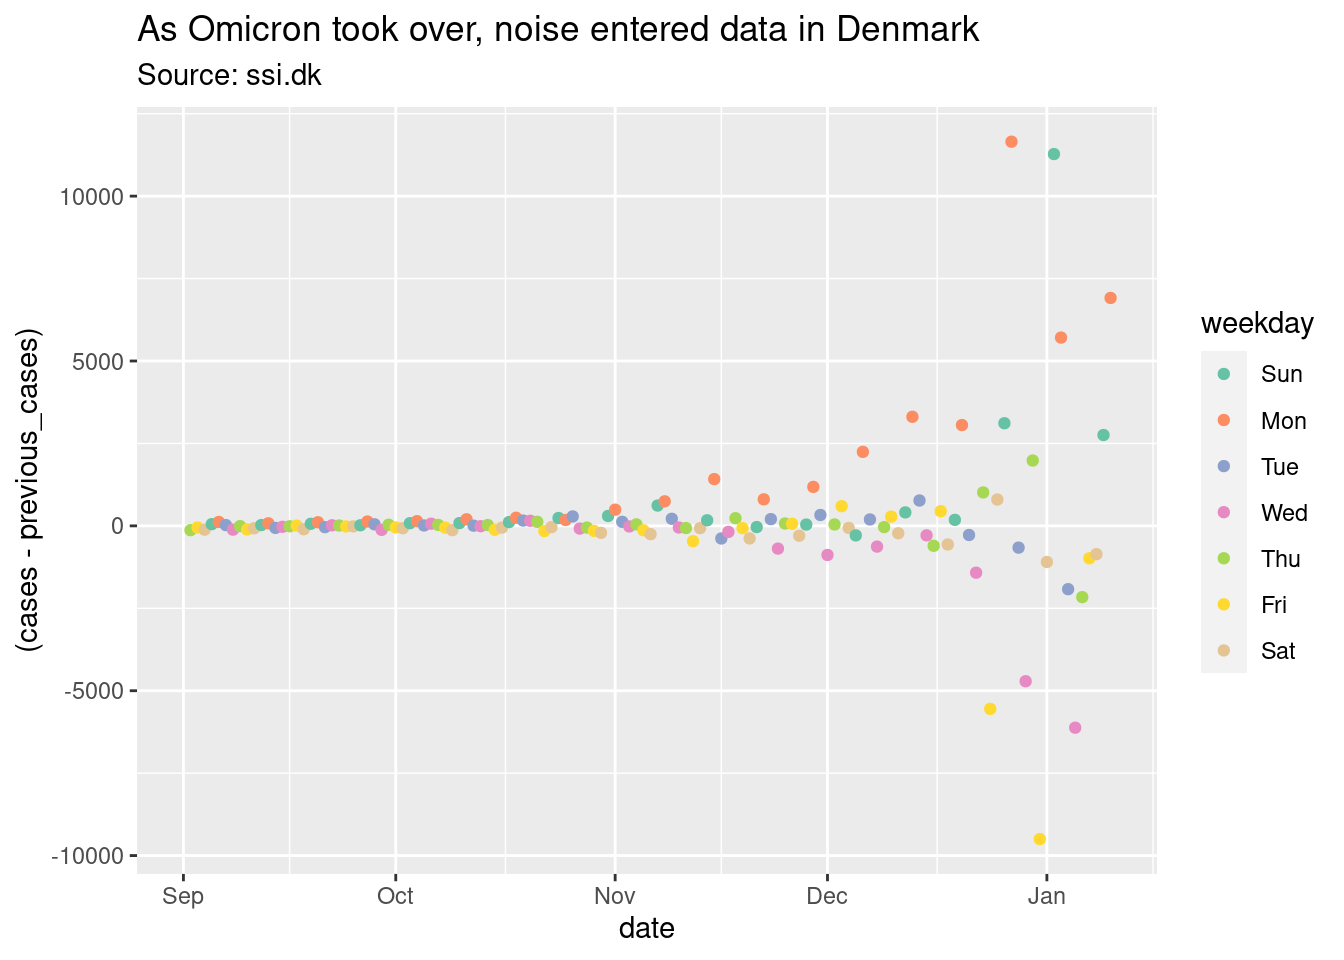
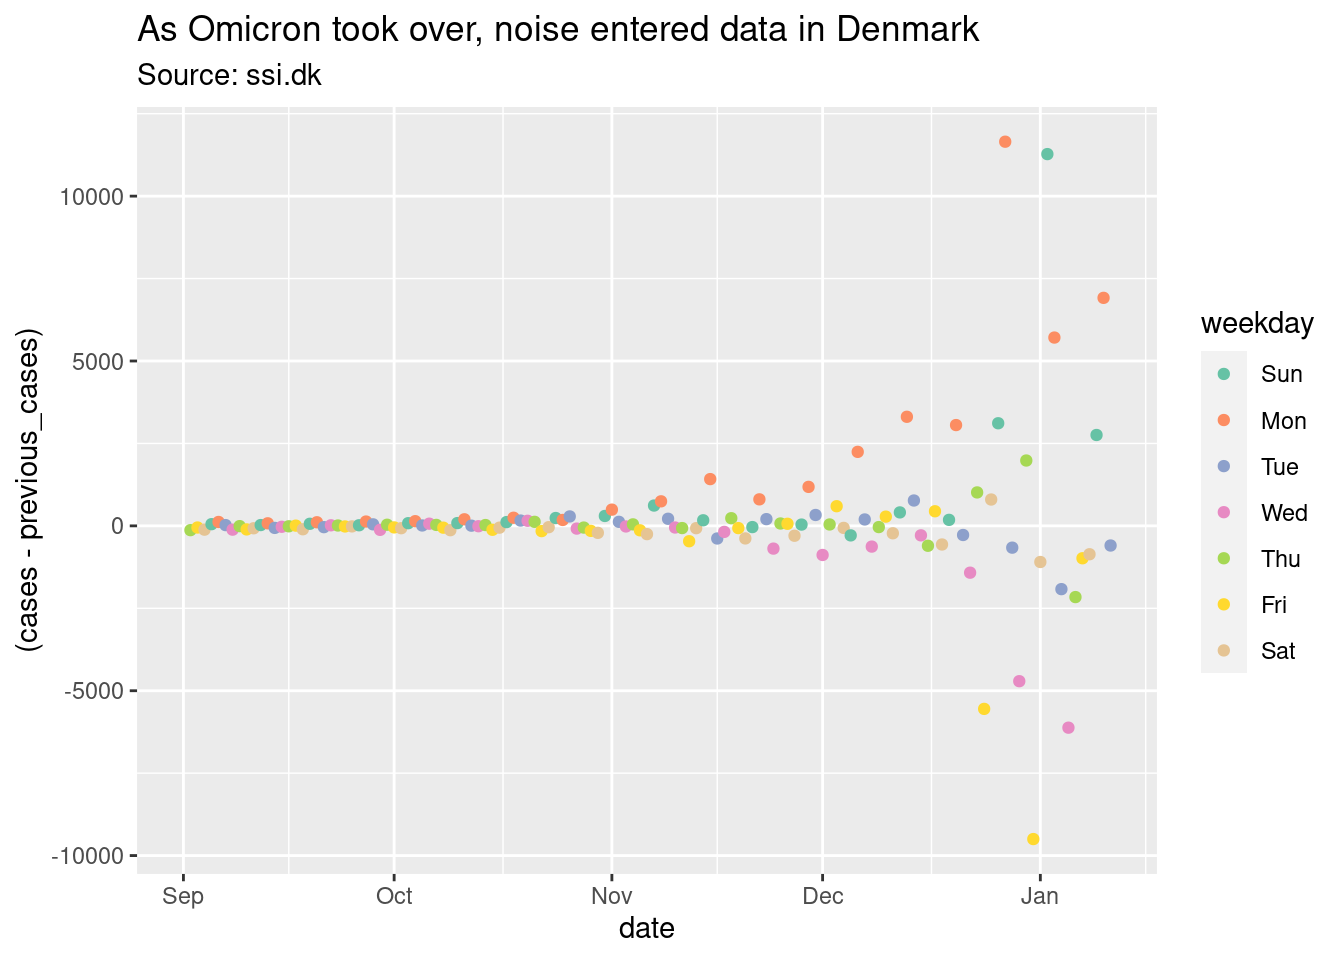
Introduce todays data.

diff --git a/docs/index.html b/docs/index.html
@@ -10,7 +10,7 @@
 
 
 
-<meta name="date" content="2022-01-13" />
+<meta name="date" content="2022-01-14" />
 
 <title>Covid-19 Stats for Denmark</title>
 
@@ -258,7 +258,7 @@ $(document).ready(function () {
 
 
 <h1 class="title toc-ignore">Covid-19 Stats for Denmark</h1>
-<h4 class="date">2022-01-13</h4>
+<h4 class="date">2022-01-14</h4>
 
 </div>
 
@@ -279,6 +279,10 @@ $(document).ready(function () {
 <ul>
 <li><a href="#regional-visualizations">Regional visualizations</a></li>
 </ul></li>
+<li><a href="#weekly-data">Weekly data</a>
+<ul>
+<li><a href="#visualizations">Visualizations</a></li>
+</ul></li>
 </ul>
 </div>
 
@@ -296,7 +300,7 @@ $(document).ready(function () {
 <pre class="r"><code>library(tidyverse)
 library(lubridate)</code></pre>
 <p>SSI’s data is in a zip file. We unpack this zip file into a directory of the general form <code>YYYY-MM-DD</code>. Lets set up a name for the current directory we want to grab data from</p>
-<pre class="r"><code>date &lt;- &quot;2022-01-13&quot;</code></pre>
+<pre class="r"><code>date &lt;- &quot;2022-01-14&quot;</code></pre>
 </div>
 <div id="ingesting-data" class="section level2">
 <h2>Ingesting data</h2>
@@ -331,7 +335,7 @@ library(lubridate)</code></pre>
                                       ))</code></pre>
 <pre><code>## ℹ Using &quot;&#39;,&#39;&quot; as decimal and &quot;&#39;.&#39;&quot; as grouping mark. Use `read_delim()` for more control.</code></pre>
 <pre class="r"><code>data</code></pre>
-<pre><code>## # A tibble: 6,512 × 9
+<pre><code>## # A tibble: 6,525 × 9
 ##    Region      Prøvetagningsdato Køn   `Bekræftede tilfælde`  Døde Indlæggelser
 ##    &lt;fct&gt;       &lt;date&gt;            &lt;fct&gt;                 &lt;dbl&gt; &lt;dbl&gt;        &lt;dbl&gt;
 ##  1 Sjælland    2020-02-26        M                         1     0            0
@@ -344,7 +348,7 @@ library(lubridate)</code></pre>
 ##  8 Hovedstaden 2020-03-03        F                         1     0            0
 ##  9 Hovedstaden 2020-03-03        M                         3     0            1
 ## 10 Hovedstaden 2020-03-04        M                         2     0            0
-## # … with 6,502 more rows, and 3 more variables: Kummuleret antal døde &lt;dbl&gt;,
+## # … with 6,515 more rows, and 3 more variables: Kummuleret antal døde &lt;dbl&gt;,
 ## #   Kummuleret antal bekræftede tilfælde &lt;dbl&gt;,
 ## #   Kummuleret antal indlæggelser &lt;dbl&gt;</code></pre>
 <p>We certainly don’t want to work with danish-named columns. Rather, we want small descriptive names which are easy to type. We send our dataset through a <code>rename</code> pass for this.</p>
@@ -359,7 +363,7 @@ library(lubridate)</code></pre>
 # Cut the cumulative columns away
 data &lt;- data %&gt;% select(region, date, gender, cases, deaths, hospitalizations)
 data</code></pre>
-<pre><code>## # A tibble: 6,512 × 6
+<pre><code>## # A tibble: 6,525 × 6
 ##    region      date       gender cases deaths hospitalizations
 ##    &lt;fct&gt;       &lt;date&gt;     &lt;fct&gt;  &lt;dbl&gt;  &lt;dbl&gt;            &lt;dbl&gt;
 ##  1 Sjælland    2020-02-26 M          1      0                0
@@ -372,7 +376,7 @@ data</code></pre>
 ##  8 Hovedstaden 2020-03-03 F          1      0                0
 ##  9 Hovedstaden 2020-03-03 M          3      0                1
 ## 10 Hovedstaden 2020-03-04 M          2      0                0
-## # … with 6,502 more rows</code></pre>
+## # … with 6,515 more rows</code></pre>
 <p>More data handling. We are interested in somewhat recent data. Covid-19 has been around for a while. We are mostly interested in the recent development which is that Delta was dominant, and Omicron came into the space. Let’s put a low-end cutoff down:</p>
 <pre class="r"><code>lo_cutoff &lt;- &#39;2021-09-01&#39;</code></pre>
 <p>The hi-end of that cutoff, we set to two days before the maximal date in our data set</p>
@@ -384,7 +388,7 @@ data</code></pre>
 # Put this into the summary
 summary &lt;- data
 summary</code></pre>
-<pre><code>## # A tibble: 1,320 × 6
+<pre><code>## # A tibble: 1,330 × 6
 ##    region      date       gender cases deaths hospitalizations
 ##    &lt;fct&gt;       &lt;date&gt;     &lt;fct&gt;  &lt;dbl&gt;  &lt;dbl&gt;            &lt;dbl&gt;
 ##  1 Hovedstaden 2021-09-01 F        210      0                7
@@ -397,7 +401,7 @@ summary</code></pre>
 ##  8 Nordjylland 2021-09-01 M         16      1                2
 ##  9 Sjælland    2021-09-01 M         37      0                3
 ## 10 Syddanmark  2021-09-01 M         41      0                1
-## # … with 1,310 more rows</code></pre>
+## # … with 1,320 more rows</code></pre>
 </div>
 <div id="weekly-key-data-split-by-age" class="section level3">
 <h3>Weekly key data split by age</h3>
@@ -546,21 +550,23 @@ p &lt;- ggplot(regions, aes(x=date, y=cases))
 plot_regions(p, &quot;Copenhagen-general area (Hovedstaden) contributes most of the noise&quot;, &quot;Source: ssi.dk&quot;)</code></pre>
 <pre><code>## `geom_smooth()` using formula &#39;y ~ x&#39;</code></pre>
 <p><img src="index_files/figure-html/regional-cases-1.png" width="672" /></p>
-<hr />
-<p><em>NOTE: The following is still being written up for the document</em></p>
-<pre><code>plot_age_cases &lt;- function(p, filename, title, subtitle) {
-    p + geom_raster() +
+</div>
+</div>
+<div id="weekly-data" class="section level2">
+<h2>Weekly data</h2>
+<div id="visualizations" class="section level3">
+<h3>Visualizations</h3>
+<pre class="r"><code>plot_age_cases &lt;- function(p, title, subtitle) {
+    p + geom_tile() +
         scale_fill_continuous(type = &quot;viridis&quot;) +
         labs(title = title, subtitle = subtitle)
-
-    ggsave(filename, height=9, width=16, dpi=120)
-}
-
-p &lt;- ggplot(weekly, aes(x=week, y=ageGroup, fill=cases_100k))
-plot_age_cases(p, &quot;weekly_age_cases.png&quot;, &quot;Covid-19 cases per 100k in Denmark, by age group&quot;, &quot;Source: ssi.dk&quot;)
-
-p &lt;- ggplot(weekly, aes(x=week, y=ageGroup, fill=tested_100k))
-plot_age_cases(p, &quot;weekly_age_tested.png&quot;, &quot;Covid-19 tests per 100k in Denmark, by age group&quot;, &quot;Source: ssi.dk&quot;)</code></pre>
+}</code></pre>
+<pre class="r"><code>p &lt;- ggplot(weekly, aes(x=week, y=ageGroup, fill=cases_100k))
+plot_age_cases(p, &quot;Covid-19 cases per 100k in Denmark, by age group&quot;, &quot;Source: ssi.dk&quot;)</code></pre>
+<p><img src="index_files/figure-html/age-group-cases-1.png" width="672" /></p>
+<pre class="r"><code>p &lt;- ggplot(weekly, aes(x=week, y=ageGroup, fill=tested_100k))
+plot_age_cases(p, &quot;Covid-19 tests per 100k in Denmark, by age group&quot;, &quot;Source: ssi.dk&quot;)</code></pre>
+<p><img src="index_files/figure-html/age-group-tests-1.png" width="672" /></p>
 </div>
 </div>
 
